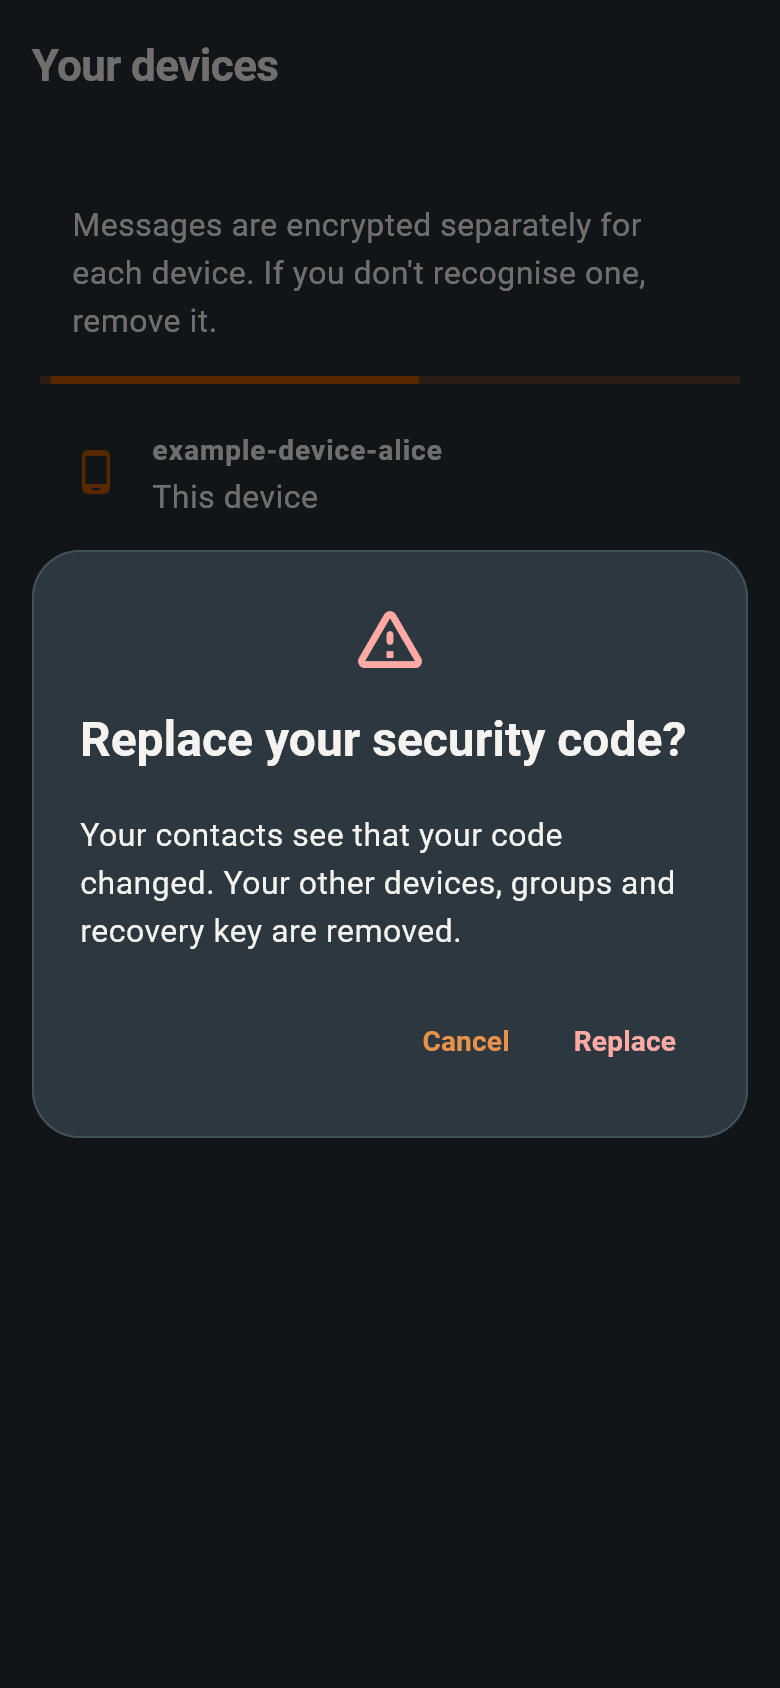
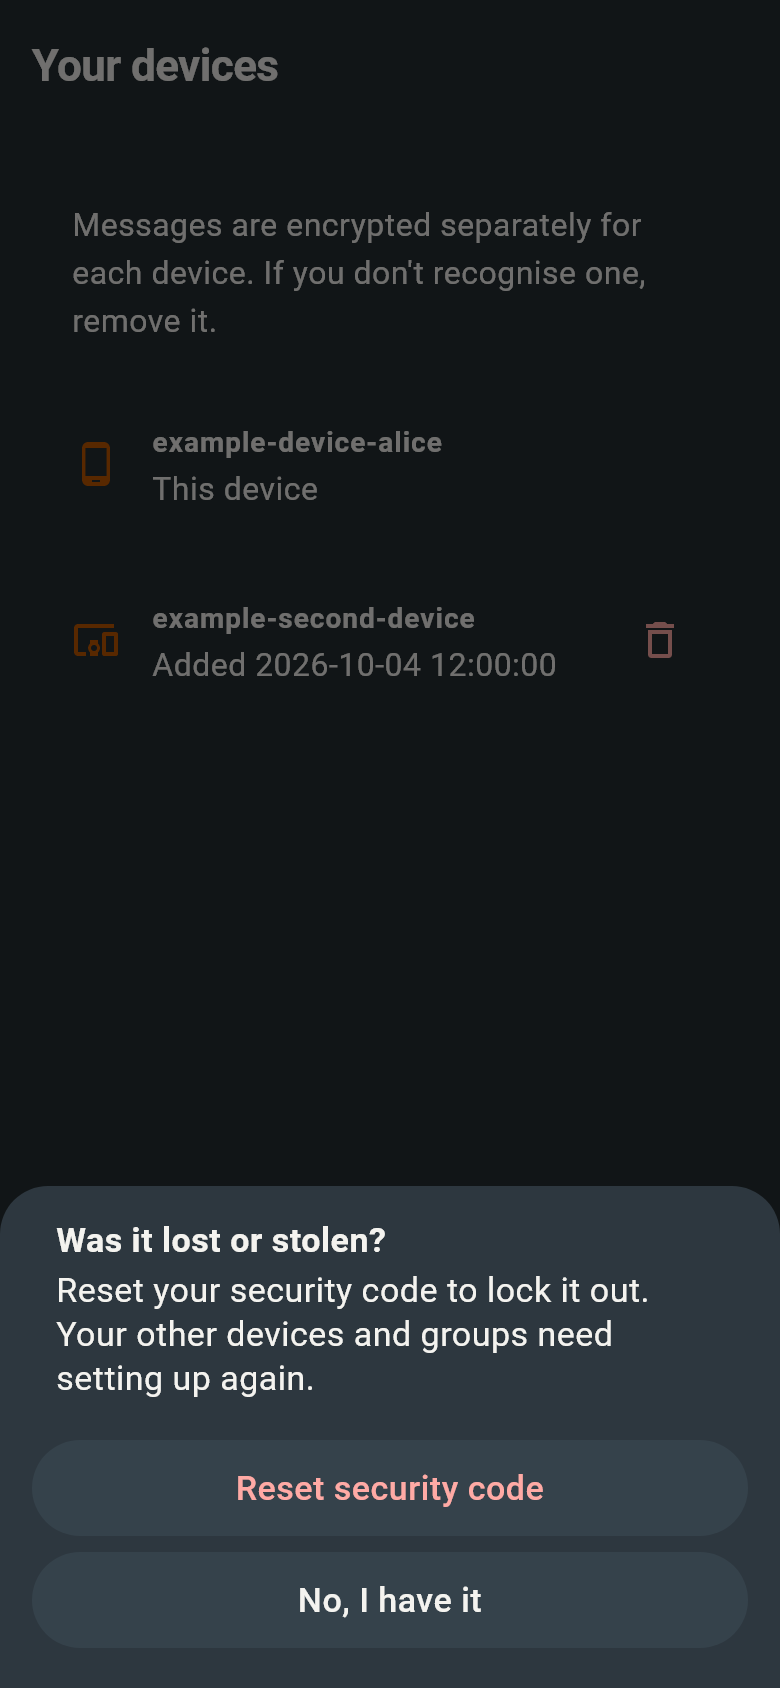
Ask about a lost device on the app's own sheet, one question at a time.
The first version put three text links in a dialog and a paragraph in a
second one. Removing is now the usual sheet with Remove and Cancel; once
the device is removed a second sheet asks whether it was lost or stolen,
with Reset security code and No, I have it.

diff --git a/lib/src/view/devices/devices_screen.dart b/lib/src/view/devices/devices_screen.dart
@@ -1,7 +1,6 @@
 import 'package:flutter/material.dart';
 
 import 'package:fireplace/src/widgets/app_bar.dart';
-import 'package:fireplace/src/widgets/dialog.dart';
 import 'package:fireplace/src/widgets/page.dart';
 import 'package:fireplace/src/widgets/status.dart';
 
@@ -10,8 +9,7 @@ import 'package:flutter_riverpod/flutter_riverpod.dart';
 import 'package:fireplace/src/app/providers.dart';
 import 'package:fireplace/src/model/keys/key_service.dart';
 import 'package:fireplace/src/styles/design_tokens.dart';
-
-enum _Removal { remove, lost }
+import 'package:fireplace/src/view/safety/safety_action_sheet.dart';
 
 class DevicesScreen extends ConsumerStatefulWidget {
   const DevicesScreen({super.key});
@@ -37,44 +35,21 @@ class _DevicesScreenState extends ConsumerState<DevicesScreen> {
       _error = null;
     });
     try {
-      final choice = await showDialog<_Removal>(
+      final ok = await showSafetyActionSheet<bool>(
         context: context,
-        builder: (ctx) => UiDialog(
-          title: const Text('Remove this device?'),
-          content: const SingleChildScrollView(
-            child: Text(
-              'It stops receiving new messages. Messages it already received stay on it.',
-            ),
+        title: 'Remove this device?',
+        message: 'It stops receiving new messages.',
+        actions: const [
+          SafetySheetAction(
+            label: 'Remove',
+            value: true,
+            style: SafetyActionStyle.destructive,
+            buttonKey: Key('confirmRevoke'),
           ),
-          actions: [
-            TextButton(
-              onPressed: () => Navigator.pop(ctx),
-              child: const Text('Cancel'),
-            ),
-            TextButton(
-              key: const Key('revokeLost'),
-              onPressed: () => Navigator.pop(ctx, _Removal.lost),
-              child: Text(
-                'It was lost or stolen',
-                style: TextStyle(color: FireplaceUiTokens.of(context).danger),
-              ),
-            ),
-            TextButton(
-              key: const Key('confirmRevoke'),
-              onPressed: () => Navigator.pop(ctx, _Removal.remove),
-              child: Text(
-                'Remove',
-                style: TextStyle(color: FireplaceUiTokens.of(context).danger),
-              ),
-            ),
-          ],
-        ),
+          SafetySheetAction(label: 'Cancel', value: false),
+        ],
       );
-      if (choice == null || !mounted) return;
-      if (choice == _Removal.lost) {
-        await _replaceIdentity();
-        return;
-      }
+      if (ok != true || !mounted) return;
       final s = ref.read(appSessionProvider).value;
       if (s == null) throw StateError('Account is not ready');
       await s.keys.revokeDevice(
@@ -82,7 +57,13 @@ class _DevicesScreenState extends ConsumerState<DevicesScreen> {
         d.deviceId,
         thisDeviceId: s.device.keys.deviceId,
       );
-      if (mounted) setState(() => _devices = _load());
+      if (!mounted) return;
+      // The device is removed; the next question is a separate one.
+      setState(() {
+        _devices = _load();
+        _revoking = null;
+      });
+      await _askIfLost();
     } catch (_) {
       if (mounted) {
         setState(() => _error = 'Could not remove this device. Try again.');
@@ -94,49 +75,47 @@ class _DevicesScreenState extends ConsumerState<DevicesScreen> {
 
   /// A device in someone else's hands still holds this account's identity
   /// key, so removing it is not enough: the identity is replaced, and with it
-  /// everything that key vouched for (decision 0062).
-  Future<void> _replaceIdentity() async {
-    final ok = await showDialog<bool>(
+  /// everything that key vouched for (decision 0062). Asked once the device
+  /// is removed, so each question has one answer to give.
+  Future<void> _askIfLost() async {
+    final reset = await showSafetyActionSheet<bool>(
       context: context,
-      builder: (ctx) => UiDialog(
-        icon: Icon(
-          Icons.warning_amber_rounded,
-          color: FireplaceUiTokens.of(context).danger,
-          size: 40,
+      title: 'Was it lost or stolen?',
+      message:
+          'Reset your security code to lock it out. Your other devices and '
+          'groups need setting up again.',
+      actions: const [
+        SafetySheetAction(
+          label: 'Reset security code',
+          value: true,
+          style: SafetyActionStyle.destructive,
+          buttonKey: Key('resetAfterLoss'),
         ),
-        title: const Text('Replace your security code?'),
-        content: const SingleChildScrollView(
-          child: Text(
-            'Your contacts see that your code changed. Your other devices, '
-            'groups and recovery key are removed.',
-          ),
+        SafetySheetAction(
+          label: 'No, I have it',
+          value: false,
+          buttonKey: Key('keepIdentity'),
         ),
-        actions: [
-          TextButton(
-            onPressed: () => Navigator.pop(ctx, false),
-            child: const Text('Cancel'),
-          ),
-          TextButton(
-            key: const Key('confirmReplaceIdentity'),
-            onPressed: () => Navigator.pop(ctx, true),
-            child: Text(
-              'Replace',
-              style: TextStyle(color: FireplaceUiTokens.of(context).danger),
-            ),
-          ),
-        ],
-      ),
+      ],
     );
-    if (ok != true || !mounted) return;
-    final s = ref.read(appSessionProvider).value;
-    if (s == null) throw StateError('Account is not ready');
-    final recovery = ref.read(recoveryServiceProvider);
-    // While the old identity can still speak: tell the groups.
-    await s.groups?.leaveAll();
-    await recovery.resetIdentity(s.uid);
-    // Everything in the session was built on the old identity.
-    if (mounted) ref.invalidate(appSessionProvider);
-    if (mounted) Navigator.of(context).popUntil((r) => r.isFirst);
+    if (reset != true || !mounted) return;
+    try {
+      final s = ref.read(appSessionProvider).value;
+      if (s == null) throw StateError('Account is not ready');
+      final recovery = ref.read(recoveryServiceProvider);
+      // While the old identity can still speak: tell the groups.
+      await s.groups?.leaveAll();
+      await recovery.resetIdentity(s.uid);
+      // Everything in the session was built on the old identity.
+      if (mounted) ref.invalidate(appSessionProvider);
+      if (mounted) Navigator.of(context).popUntil((r) => r.isFirst);
+    } catch (_) {
+      if (mounted) {
+        setState(
+          () => _error = 'Could not reset your security code. Try again.',
+        );
+      }
+    }
   }
 
   @override

diff --git a/test/view/account/account_action_feedback_test.dart b/test/view/account/account_action_feedback_test.dart
@@ -50,7 +50,10 @@ void main() {
       await host(t, f, const DevicesScreen());
       await t.tap(find.byKey(const Key('revoke_example-second-device')));
       await flush(t);
+      // The sheet slides up from the bottom; Cancel is its lowest button.
+      await flush(t);
       await t.tap(find.text('Cancel'));
+      await flush(t);
       await flush(t);
       expect(k.removals, 0);
       final remove = t
@@ -62,6 +65,7 @@ void main() {
       remove();
       await flush(t);
       expect(find.text('Remove this device?'), findsOneWidget);
+      await flush(t);
       await t.tap(find.byKey(const Key('confirmRevoke')));
       await flush(t);
       expect(k.removals, 1);
@@ -72,8 +76,8 @@ void main() {
     },
   );
   testWidgets(
-    'a lost device: the identity is replaced only after a second question, '
-    'and the device is not merely marked removed',
+    'after removing a device the app asks once whether it was lost; only '
+    'that answer resets the security code',
     (t) async {
       final k = ActionKeys();
       final f = UiFixture(keys: k);
@@ -84,25 +88,31 @@ void main() {
         const DevicesScreen(),
         extra: [recoveryServiceProvider.overrideWithValue(r)],
       );
-      Future<void> open() async {
+      Future<void> remove() async {
         await t.tap(find.byKey(const Key('revoke_example-second-device')));
         await flush(t);
-        await t.tap(find.byKey(const Key('revokeLost')));
+        // One question at a time: nothing about loss before the removal.
+        expect(find.text('Was it lost or stolen?'), findsNothing);
+        await flush(t);
+        await t.tap(find.byKey(const Key('confirmRevoke')));
+        // Removed, and the follow-up sheet has slid up.
+        await flush(t);
         await flush(t);
       }
 
-      await open();
-      expect(find.text('Replace your security code?'), findsOneWidget);
-      await t.tap(find.text('Cancel'));
+      await remove();
+      expect(k.removals, 1);
+      expect(find.text('Was it lost or stolen?'), findsOneWidget);
+      await t.tap(find.byKey(const Key('keepIdentity')));
+      await flush(t);
       await flush(t);
       expect(r.resets, 0);
-      expect(k.removals, 0);
+      expect(find.text('Was it lost or stolen?'), findsNothing);
 
-      await open();
-      await t.tap(find.byKey(const Key('confirmReplaceIdentity')));
+      await remove();
+      await t.tap(find.byKey(const Key('resetAfterLoss')));
       await flush(t);
       expect(r.resets, 1);
-      expect(k.removals, 0);
       expect(t.takeException(), isNull);
     },
   );

diff --git a/test/view/safety/trust_ui_test.dart b/test/view/safety/trust_ui_test.dart
@@ -117,14 +117,31 @@ void main() {
     await t.tap(find.byKey(Key('revoke_$otherId')));
     // The guarded device action remains busy while confirmation is open.
     await t.pump(const Duration(milliseconds: 350));
+    // The sheet slides up: one frame to start it, one to finish.
+    await t.pump(const Duration(milliseconds: 350));
     await t.tap(find.byKey(const Key('confirmRevoke')));
+    // Removed first; then the one follow-up question, answered "No".
     for (var i = 0; i < 40; i++) {
       await t.runAsync(
         () => Future<void>.delayed(const Duration(milliseconds: 25)),
       );
-      await t.pump();
-      if (find.text('Removed').evaluate().isNotEmpty) break;
+      await t.pump(const Duration(milliseconds: 50));
+      if (find.byKey(const Key('keepIdentity')).evaluate().isNotEmpty) break;
+    }
+    await t.pump(const Duration(milliseconds: 350));
+    expect(find.text('Was it lost or stolen?'), findsOneWidget);
+    await t.tap(find.byKey(const Key('keepIdentity')));
+    for (var i = 0; i < 40; i++) {
+      await t.runAsync(
+        () => Future<void>.delayed(const Duration(milliseconds: 25)),
+      );
+      await t.pump(const Duration(milliseconds: 50));
+      if (find.text('Removed').evaluate().isNotEmpty &&
+          find.text('Was it lost or stolen?').evaluate().isEmpty) {
+        break;
+      }
     }
     expect(find.text('Removed'), findsOneWidget);
+    expect(find.text('Was it lost or stolen?'), findsNothing);
   });
 }

diff --git a/scripts/render/render_screens_test.dart b/scripts/render/render_screens_test.dart
@@ -62,6 +62,14 @@ import 'package:flutter_test/flutter_test.dart';
 import '../../test/support/ui_fixture.dart';
 import '../../test/support/account_fixture.dart';
 
+/// Lets a bottom sheet slide all the way up (or away).
+Future<void> openSheet(WidgetTester t) async {
+  await settleUi(t);
+  await t.pump(const Duration(milliseconds: 400));
+  await t.pump(const Duration(milliseconds: 400));
+  await settleUi(t);
+}
+
 Future<void> loadFonts() async {
   final emojiPath = Platform.environment['RENDER_EMOJI_FONT'];
   if (emojiPath != null) {
@@ -744,7 +752,7 @@ void main() {
       const DevicesScreen(),
       act: (t, f) async {
         await t.tap(find.byKey(const Key('revoke_example-second-device')));
-        await settleUi(t);
+        await openSheet(t);
       },
     ),
     CatalogCase(
@@ -752,9 +760,10 @@ void main() {
       const DevicesScreen(),
       act: (t, f) async {
         await t.tap(find.byKey(const Key('revoke_example-second-device')));
-        await settleUi(t);
-        await t.tap(find.byKey(const Key('revokeLost')));
-        await settleUi(t);
+        await openSheet(t);
+        await t.tap(find.byKey(const Key('confirmRevoke')));
+        await openSheet(t);
+        await openSheet(t);
       },
     ),
     const CatalogCase('recovery', RecoveryKeyScreen()),

diff --git a/test/support/ui_fixture.dart b/test/support/ui_fixture.dart
@@ -33,6 +33,14 @@ class FixtureKeys extends Fake implements KeyService {
   @override
   void bindLocalDevice(String uid, LocalDevice device) {}
 
+  /// Accepted and forgotten: the fixture's device list does not change.
+  @override
+  Future<void> revokeDevice(
+    String uid,
+    String deviceId, {
+    required String thisDeviceId,
+  }) async {}
+
   @override
   Future<List<int>?> pinnedIdentity(String peerUid) async =>
       List.generate(64, (i) => 63 - i);

diff --git a/docs/protocol/threat-model.md b/docs/protocol/threat-model.md
@@ -34,7 +34,7 @@ The device holds decrypted history. Someone with an unlocked phone, screen captu
 - *Key substitution by the server:* prekeys and device certificates are signed by the account identity; pinning + safety numbers expose swapped identities. A first-contact substitution is only caught if users compare safety numbers.
 - *Spam / unsolicited contact / cost abuse:* invite-only sign-up, message requests, blocking, suspension and the send limits in [0028](../decisions/0028-send-window.md) reduce abuse. Read traffic can still drive costs; Firestore has no hard spending cap on Blaze. [App Check activation](../development/app-check.md) alone does not enforce attestation; enforcement is a server setting. Verify deployed rules, limits and console settings in the backend's release process.
 - *A contact who sends invalid messages:* after 8 invalid new-chain messages (tampered headers or ciphertexts; replays and reflections are refused cheaply and do not count) in a minute the session ignores further new-chain messages from that contact for up to a minute (they are retried afterwards); this only affects the conversation with that contact. Draining someone's one-time prekeys (anyone with an account can claim them) downgrades new sessions to the signed prekey alone, a 7-day forward-secrecy window; a server substituting a one-time prekey can only make that handshake fail.
-- *A removed device:* removal is enforced by the server. Other phones skip a device the server marks as removed, and the server refuses its messages. Nothing signed by the account says a device is removed, and it could not: every linked device holds the account's identity key, so a removed device could sign as the account too. If a removed device may be in someone else's hands, choose "It was lost or stolen" when removing it: the identity is replaced ([0062](../decisions/0062-replace-the-identity-for-a-lost-device.md)), contacts see a security code change, and the old device's certificate no longer matches.
+- *A removed device:* removal is enforced by the server. Other phones skip a device the server marks as removed, and the server refuses its messages. Nothing signed by the account says a device is removed, and it could not: every linked device holds the account's identity key, so a removed device could sign as the account too. If a removed device may be in someone else's hands, answer "Was it lost or stolen?" with "Reset security code" when removing it: the identity is replaced ([0062](../decisions/0062-replace-the-identity-for-a-lost-device.md)), contacts see a security code change, and the old device's certificate no longer matches.
 - *Compromised device:* not protected. After a one-time copy of session state, messages protected by the copied keys stay readable until the heal point.
 - *Metadata:* not hidden.
 - *Account takeover:* anyone with the password can sign in; they also need the local keys or the recovery key/linked device to read chats, but can create a new identity and get contacts' warnings. Weak or reused passwords are a risk. Authentication proves an account, not a real-world person.

diff --git a/docs/decisions/0062-replace-the-identity-for-a-lost-device.md b/docs/decisions/0062-replace-the-identity-for-a-lost-device.md
@@ -17,11 +17,15 @@ group credential are signed by an identity that contacts no longer trust.
 
 ## Decision
 
-Removing a device asks one more thing. "Remove this device?" offers:
+Removing a device is two small questions, each with one thing to decide,
+on the sheet the app uses for such questions:
 
-- **Remove**: as before. For a device the person still has, or has wiped.
-- **It was lost or stolen**: a second question, "Replace your security
-  code?", and then the identity is replaced.
+1. **"Remove this device?"** Remove or Cancel, as before.
+2. Once it is removed: **"Was it lost or stolen?"** with "Reset your security
+   code to lock it out. Your other devices and groups need setting up
+   again." The answers are "Reset security code" and "No, I have it".
+
+"No, I have it" ends there: the device is removed and nothing else changes.
 
 Replacing does, in this order:
 
@@ -66,8 +70,8 @@ left because the phone was offline: its keys are discarded all the same.
 - Contacts must accept the new security code before messages flow again,
   and a careful contact will want to verify it.
 - Messages the lost device already received stay on it.
-- If the person chooses plain Remove for a device that was in fact stolen,
-  nothing here helps; the threat model says what Remove does.
+- If the person answers "No, I have it" for a device that was in fact
+  stolen, nothing here helps; the threat model says what removing does.
 
 ## Costs
 
@@ -83,5 +87,6 @@ per group. Nothing recurring. No new server fields or rules.
   groups, publishes key packages for the new device, and the account can be
   invited and read messages again; a restart of the same device keeps its
   groups.
-- Screen: the identity is replaced only after the second question, and
-  cancelling either question changes nothing.
+- Screen: the second question comes only after the device is removed; "No, I
+  have it" changes nothing more; only "Reset security code" replaces the
+  identity.
